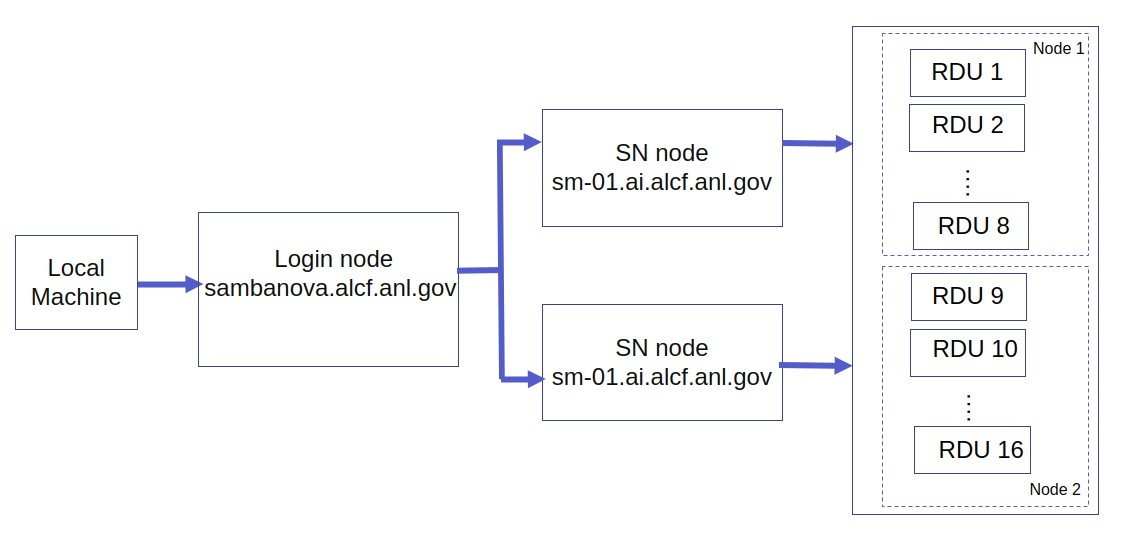
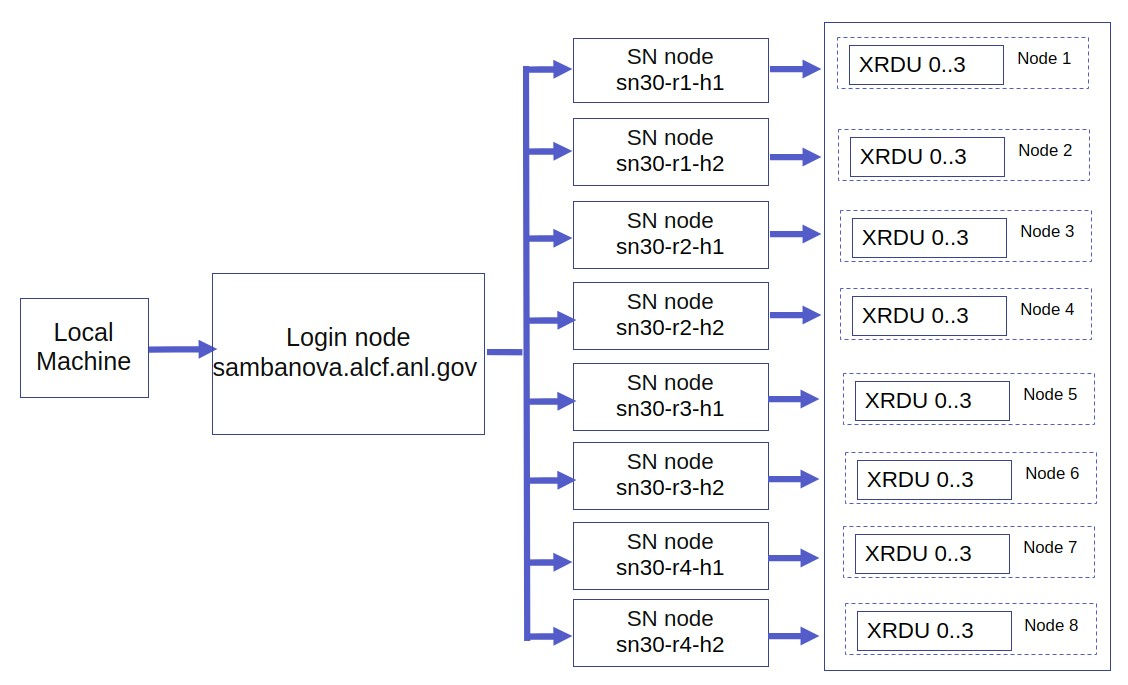
Added sambanova_login.jpg.

Changed region(s): [[0.0, 0.0309, 0.9929, 0.9891], [0.6826, 0.0309, 0.9929, 0.1545], [0.1862, 0.3709, 0.4034, 0.4018]]

diff --git a/docs/sambanova/Logging-into-a-SambaNova-Node.md b/docs/sambanova/Logging-into-a-SambaNova-Node.md
@@ -17,7 +17,7 @@ The second step is to log in to a SambaNova node from the **login node**.
 The SambaNova system has four racks, r1..4 and two hosts, h1..2, per rack.  So, **sn30-r2-h1** is the
 node on **rack 2** and **host 1**.
 
-![SambaNova System View](Logging-in.jpg "SambaNova System View")
+![SambaNova System View](sambanova_login.jpg "SambaNova System View")
 
 ### Log in to Login Node
 
@@ -65,6 +65,7 @@ a pre-configured virtual environment.
 
 Use
 
+<!-- TODOBRW Is this still true? -->
 ```bash
 ALCFUserID@sn30-r1-h1:~$ source /software/sambanova/envs/sn_env.sh
 (venv) ALCFUserID@sn30-r1-h1:~$
@@ -80,8 +81,53 @@ alias snthreads='export OMP_NUM_THREADS=16' # The OMP_NUM_THREADS environment va
 alias snvenv='source /opt/sambaflow/venv/bin/activate' # This starts the pre-configured virtual environment that consists of sambaflow and other built-in libraries.
 ```
 
-**NOTE:  SambaNova operations will fail unless the SambaNova venv is set
-up.**
+**NOTE:  SambaNova operations will fail unless a SambaNova venv is set-up.**
+
+**NOTE:  With 1.14 there is no longer a common venv. Each model has its own venv.**
+
+#### Starters
+
+```bash
+source /opt/sambaflow/apps/starters/mlp/venv
+source /opt/sambaflow/apps/starters/lenet/venv
+source /opt/sambaflow/apps/starters/ffn_mnist/venv
+source /opt/sambaflow/apps/starters/logreg/venv
+source /opt/sambaflow/apps/starters/upscalenet/venv
+source /opt/sambaflow/apps/starters/power_pca/venv
+```
+
+#### Images
+
+```bash
+source /opt/sambaflow/apps/image/segmentation_3d/venv
+source /opt/sambaflow/apps/image/deepvit/venv
+source /opt/sambaflow/apps/image/segmentation/venv
+source /opt/sambaflow/apps/image/object_detection/venv
+source /opt/sambaflow/apps/image/classification/venv
+```
+
+#### Recommenders
+
+```bash
+source /opt/sambaflow/apps/recommender/dlrm/venv
+source /opt/sambaflow/apps/recommender/ncf/venv
+source /opt/sambaflow/apps/recommender/deepinterest/venv
+```
+
+#### NLP
+
+```bash
+source /opt/sambaflow/apps/nlp/transformers_on_rdu/venv
+source /opt/sambaflow/apps/nlp/transformers_on_rdu/gpt13b/venv
+source /opt/sambaflow/apps/nlp/data_processing/venv
+```
+
+#### Other
+
+```bash
+source /opt/sambaflow/apps/private/anl/venv
+source /opt/sambaflow/apps/micros/venv
+```
 
 You may deactivate the environment if finished.
 

diff --git a/docs/sambanova/Virtual-Environment.md b/docs/sambanova/Virtual-Environment.md
@@ -1,4 +1,4 @@
-# Virtual Environments to Customize Environment
+# Virtual Environments for Custom Packages
 
 ## Using a Virtual Venv
 
